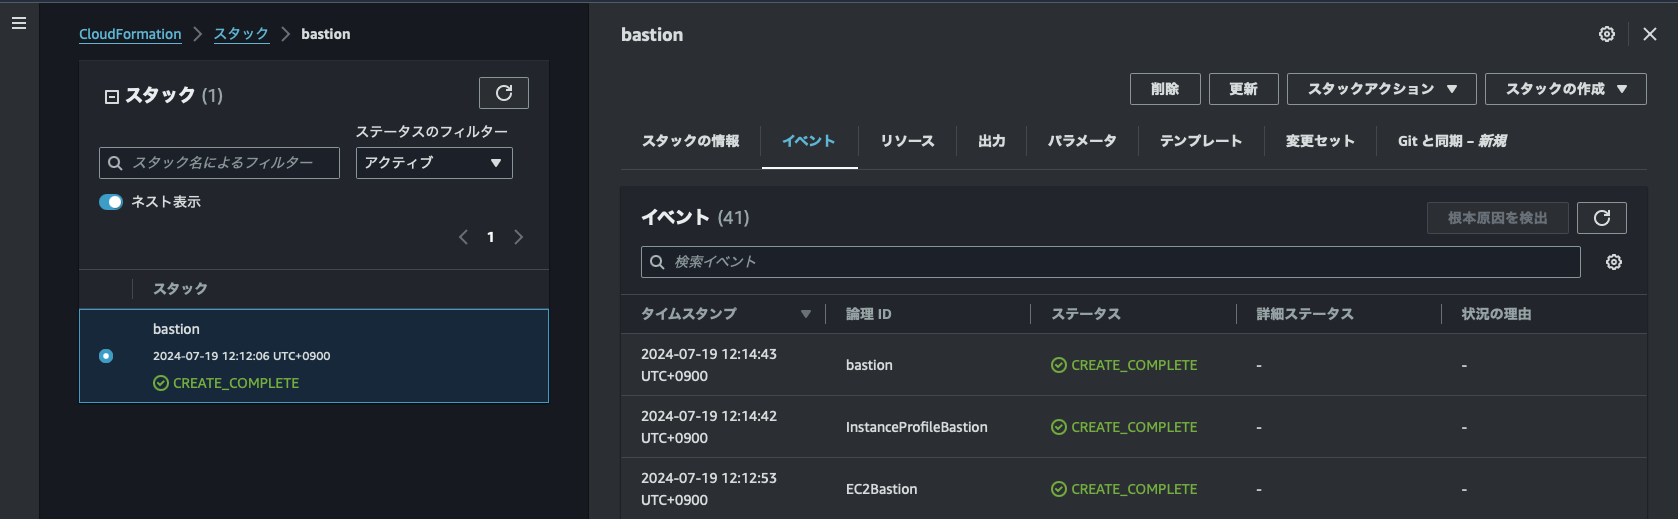
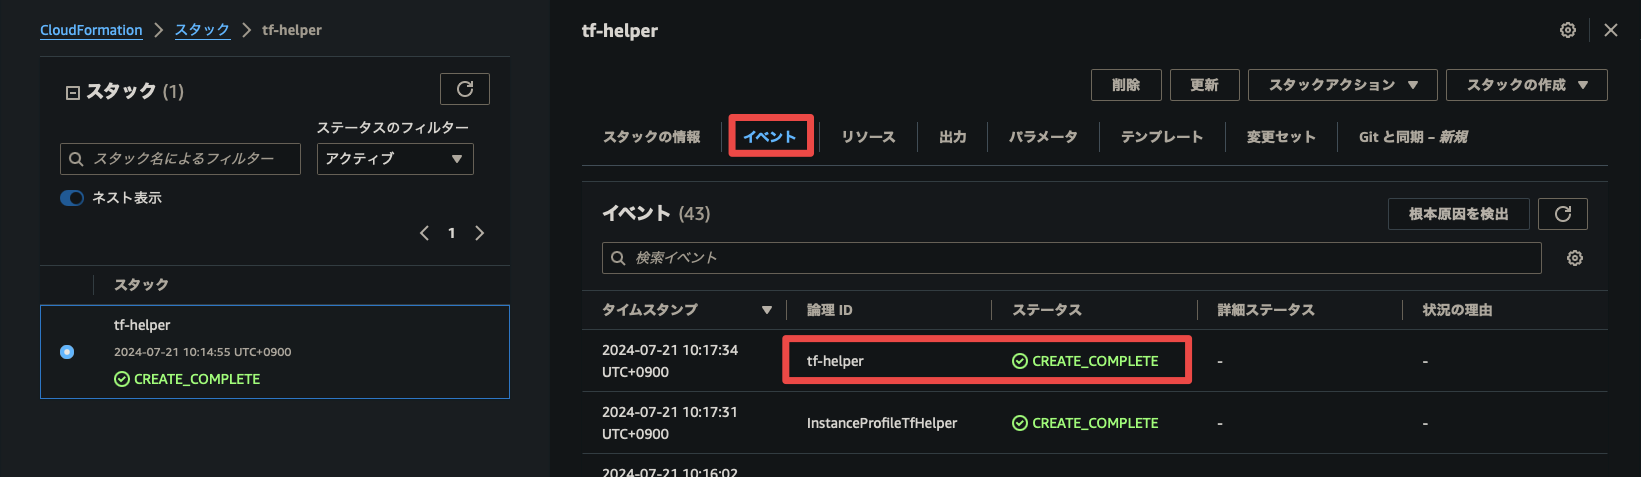
README を修正

diff --git a/README.md b/README.md
@@ -1,20 +1,22 @@
 # sample-cfn
 
-`templates/bastion.yml` は EC2 インスタンスを作成する CloudFormation テンプレートです。
+`templates/tf-helper.yml` は EC2 インスタンス（`tf-helper`）を作成する CloudFormation テンプレートです。
 
-ローカルから EC2 インスタンスに SSH 接続して、Terraform の開発と実行などの作業を行うことを想定しています。
+ローカルから `tf-helper` に SSH 接続して、Terraform の開発と実行などの作業を行うことを想定しています。
 
 ## 使い方
+
+以下の手順で、VSCode を利用した `tf-helper` 上での CloudFormation 開発環境を構築します。
 
 ### 0. リポジトリのクローン
 
 1. このリポジトリをクローンします。
 
     ```bash
-    git clone https://github.com/KyoheiNakamura/sample-cfn.git
+    git clone <URL>
     ```
 
-### 1. 踏み台サーバーの作成
+### 1. tf-helper の作成
 
 > [!NOTE]
 > AWS コンソールで作業します。
@@ -29,7 +31,7 @@
 
     ![alt text](./docs/images/aws-cfn-create.png)
 
-3. `テンプレートファイルのアップロード` を選択し、`templates/bastion.yml` をアップロードします。
+3. `テンプレートファイルのアップロード` を選択し、`templates/tf-helper.yml` をアップロードします。
 
     ![alt text](./docs/images/aws-cfn-create-template.png)
 
@@ -41,23 +43,23 @@
 
     ![alt text](./docs/images/aws-cfn-create-confirm.png)
 
-#### 1-2. 踏み台サーバーのパブリック DNS のメモ
+#### 1-2. tf-helper のパブリック DNS のメモ
 
-1. [1-1. CloudFormation スタックの作成](#1-1-cloudformation-スタックの作成) で作成した bastion スタックの出力から、踏み台サーバーのパブリック DNS (`EC2BastionPublicDnsName`) の値をメモします。
+1. [1-1. CloudFormation スタックの作成](#1-1-cloudformation-スタックの作成) で作成した `tf-helper` スタックの出力から、tf-helper のパブリック DNS (`EC2TfHelperPublicDnsName`) の値をメモします。
 
-    ![alt text](./docs/images/aws-cfn-bastion-output-ec2.png)
+    ![alt text](./docs/images/aws-cfn-output-ec2.png)
 
 #### 1-3. SSH プライベートキーのメモ
 
-1. [1-1. CloudFormation スタックの作成](#1-1-cloudformation-スタックの作成) で作成した bastion スタックの出力から、SSH プライベートキー (`KeyPairBastionLocation`) の値をメモします。
+1. [1-1. CloudFormation スタックの作成](#1-1-cloudformation-スタックの作成) で作成した `tf-helper` スタックの出力から、SSH プライベートキー (`KeyPairTfHelperLocation`) の値をメモします。
 
-    ![alt text](./docs/images/aws-cfn-bastion-output-keypair.png)
+    ![alt text](./docs/images/aws-cfn-output-keypair.png)
 
 2. サービスから `パラメータストア` を選択します。
 
     ![alt text](./docs/images/aws-ssm-ps-select.png)
 
-3. 1 でメモした `KeyPairBastionLocation` の値を選択します。
+3. 1 でメモした `KeyPairTfHelperLocation` の値を選択します。
 
     ![alt text](./docs/images/aws-ssm-ps-select-keypair.png)
 
@@ -72,25 +74,25 @@
 
 #### 2-1. SSH 接続の設定
 
-[1-3. SSH プライベートキーのメモ](#1-3-ssh-プライベートキーのメモ) でメモしたプライベートキーをローカルに保存し、踏み台サーバーに SSH 接続します。
+[1-3. SSH プライベートキーのメモ](#1-3-ssh-プライベートキーのメモ) でメモしたプライベートキーをローカルに保存し、tf-helper に SSH 接続します。
 
-1. `~/.ssh/bastion.pem` にプライベートキーを保存して、パーミッションを変更します。
+1. `~/.ssh/tf-helper.pem` にプライベートキーを保存して、パーミッションを変更します。
 
     ```bash
-    echo "{プライベートキー}" > ~/.ssh/bastion.pem && chmod 400 ~/.ssh/bastion.pem
+    echo "{プライベートキー}" > ~/.ssh/tf-helper.pem && chmod 400 ~/.ssh/tf-helper.pem
     ```
 
 2. `~/.ssh/config` に以下の設定を追加します。
 
-    HostName には [1-2. 踏み台サーバーのパブリック DNS のメモ](#1-2-踏み台サーバーのパブリック-dns-のメモ) でメモした値を入力します。
+    HostName には [1-2. tf-helper のパブリック DNS のメモ](#1-2-tf-helper-のパブリック-dns-のメモ) でメモした値を入力します。
 
     ```bash
     echo "
-    # 踏み台サーバー
-    Host bastion
-      HostName {踏み台サーバーのパブリック DNS}
+    # tf-helper 
+    Host tf-helper
+      HostName {tf-helper のパブリック DNS}
       User ec2-user
-      IdentityFile ~/.ssh/bastion.pem
+      IdentityFile ~/.ssh/tf-helper.pem
       ServerAliveInterval 60
       ServerAliveCountMax 120" >> ~/.ssh/config
     ```
@@ -100,7 +102,7 @@
 1. SSH 接続をします。
 
     ```bash
-    ssh bastion
+    ssh tf-helper
     ```
 
     <details>
@@ -109,7 +111,7 @@
 
     ```log
     ~
-    ❯ ssh bastion
+    ❯ ssh tf-helper
        ,     #_
        ~\_  ####_        Amazon Linux 2023
       ~~  \_#####\
@@ -135,48 +137,61 @@
 
 VSCode から SSH 接続するための設定を行います。
 
-1. VSCode に `Remote - SSH` 拡張機能をインストールします。
-
-    ```bash
-    code --install-extension ms-vscode-remote.remote-ssh
-    ```
-
-    左側のアイコンから拡張機能を検索してインストールすることもできます。
+1. 左側のアイコンから拡張機能を検索して、`Remote - SSH` (ms-vscode-remote.remote-ssh) 拡張機能をインストールします。
 
     ![alt text](./docs/images/vscode-remote-ssh-install.png)
 
-2. 左下の `><` アイコンをクリックするかコマンドパレットを開いて、`Remote-SSH: Connect to Host...` を選択し、SSH Host に `bastion` を選択します。
+2. 左下の `><` アイコンをクリックするかコマンドパレットを開いて、`Remote-SSH: Connect to Host...` を選択し、SSH Host に `tf-helper` を選択します。
 
     ![alt text](./docs/images/vscode-remote-ssh-connect.png)
 
-3. 左下の `><` アイコンの右側に `SSH: bastion` と表示されていることを確認します。
+3. 左下の `><` アイコンの右側に `SSH: tf-helper` と表示されていることを確認します。
 
     ![alt text](./docs/images/vscode-remote-ssh-connected.png)
 
-#### 3-2. Dev Container の立ち上げ
+#### 3-2. リポジトリのコピー
 
 > [!NOTE]
-> VSCode で `bastion` に SSH 接続した状態で作業します。
+> VSCode で `tf-helper` に SSH 接続した状態で作業します。
 
-1. VSCode に `Remote - Containers` 拡張機能をインストールします。
+1. VSCode のコマンドパレットから `File: Open Folder...` を選択して、`tf-helper` のホームディレクトリを開きます。
+
+    ![alt text](./docs/images/vscode-open-folder-home.png)
+
+2. ローカルのリポジトリを `tf-helper` にコピーします。
 
     ```bash
-    code --install-extension ms-vscode-remote.remote-containers
+    rsync -avzP path/to/sample-cfn/ tf-helper:~/sample-cfn
     ```
 
-    左側のアイコンから拡張機能を検索してインストールすることもできます。
+    VSCode にドラッグアンドドロップでコピーしたり、`tf-helper` 上から git でクローンすることもできます。
+
+    ```bash
+    git clone <URL>
+    ```
+
+#### 3-3. Dev Container の立ち上げ
+
+> [!NOTE]
+> VSCode で `tf-helper` に SSH 接続した状態で作業します。
+
+1. VSCode のコマンドパレットから `File: Open Folder...` を選択して、[3-2. リポジトリのコピー](#3-2-リポジトリのコピー) でコピーした `sample-cfn` ディレクトリを開きます。
+
+    ![alt text](./docs/images/vscode-open-folder-sample-cfn.png)
+
+2. 左側のアイコンから拡張機能を検索して、`Remote - Containers` (ms-vscode-remote.remote-containers) 拡張機能をインストールします。
 
     ![alt text](./docs/images/vscode-remote-container-install.png)
 
-2. 左下の `><` アイコンをクリックするかコマンドパレットを開いて、`Remote-Containers: Reopen in Container` を選択します。
+3. 左下の `><` アイコンをクリックするかコマンドパレットを開いて、`Remote-Containers: Reopen in Container` を選択します。
 
     ![alt text](./docs/images/vscode-remote-container-reopen.png)
 
-3. 左下の `><` アイコンの右側に `Dev Container: Sample CFn @  bastion` と表示されていることを確認します。
+4. 左下の `><` アイコンの右側に `Dev Container: Sample CFn @ tf-helper` と表示されていることを確認します。
 
     ![alt text](./docs/images/vscode-remote-container-running.png)
 
-#### 3-3. 推奨拡張機能のインストール
+#### 3-4. 推奨拡張機能のインストール
 
 1. コマンドパレットを開いて、`Extensions: Show Recommended Extensions` を選択して、推奨の拡張機能を検索できます。
 
@@ -189,3 +204,33 @@ VSCode から SSH 接続するための設定を行います。
 2. 左側のアイコンから拡張機能を `@recommended` で検索して、インストールアイコンをクリックすることでまとめてインストールできます。
 
     ![alt text](./docs/images/vscode-extensions-recommended-install-icon.png)
+
+### 4. 後片付け
+
+作業が終わったら、以下の手順で後片付けをします。
+
+#### 4-1. VSCode からの SSH 切断
+
+> [!NOTE]
+> VSCode で `tf-helper` に SSH 接続した状態で作業します。
+
+1. 左下の `><` アイコンをクリックするかコマンドパレットを開いて、`Remote: Close Remote Connection` を選択します。
+
+    ![alt text](./docs/images/vscode-remote-close-connection.png)
+
+2. `SSH: tf-helper` が消えていることを確認します。
+
+    ![alt text](./docs/images/vscode-remote-ssh-disconnected.png)
+
+#### 4-2. CloudFormation スタックの削除
+
+> [!NOTE]
+> AWS コンソールで作業します。
+
+1. サービスから `CloudFormation` を選択します。
+
+    ![alt text](./docs/images/aws-cfn-select.png)
+
+2. `tf-helper` スタックを選択し、`削除` をクリックします。
+
+    ![alt text](./docs/images/aws-cfn-delete-stack.png)
